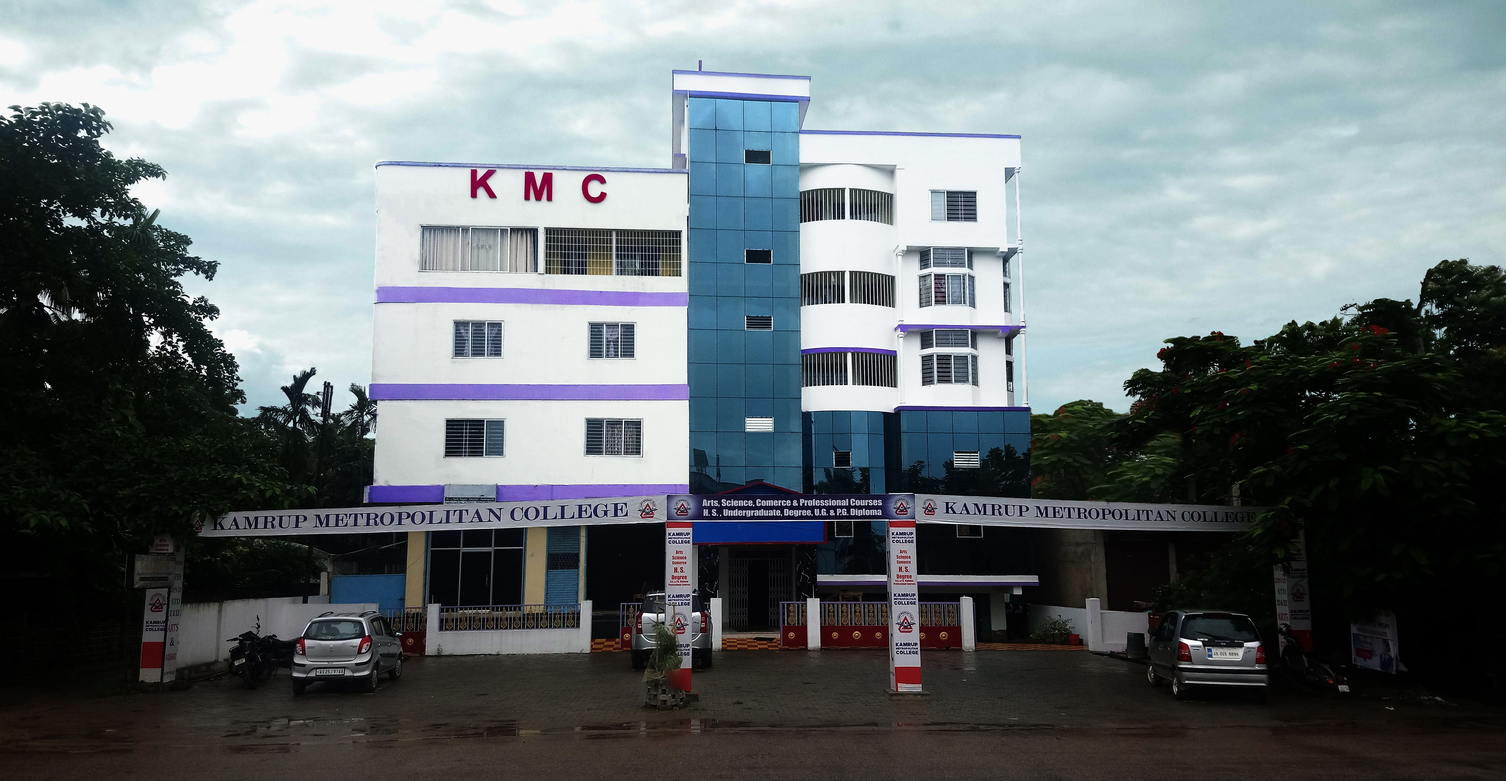
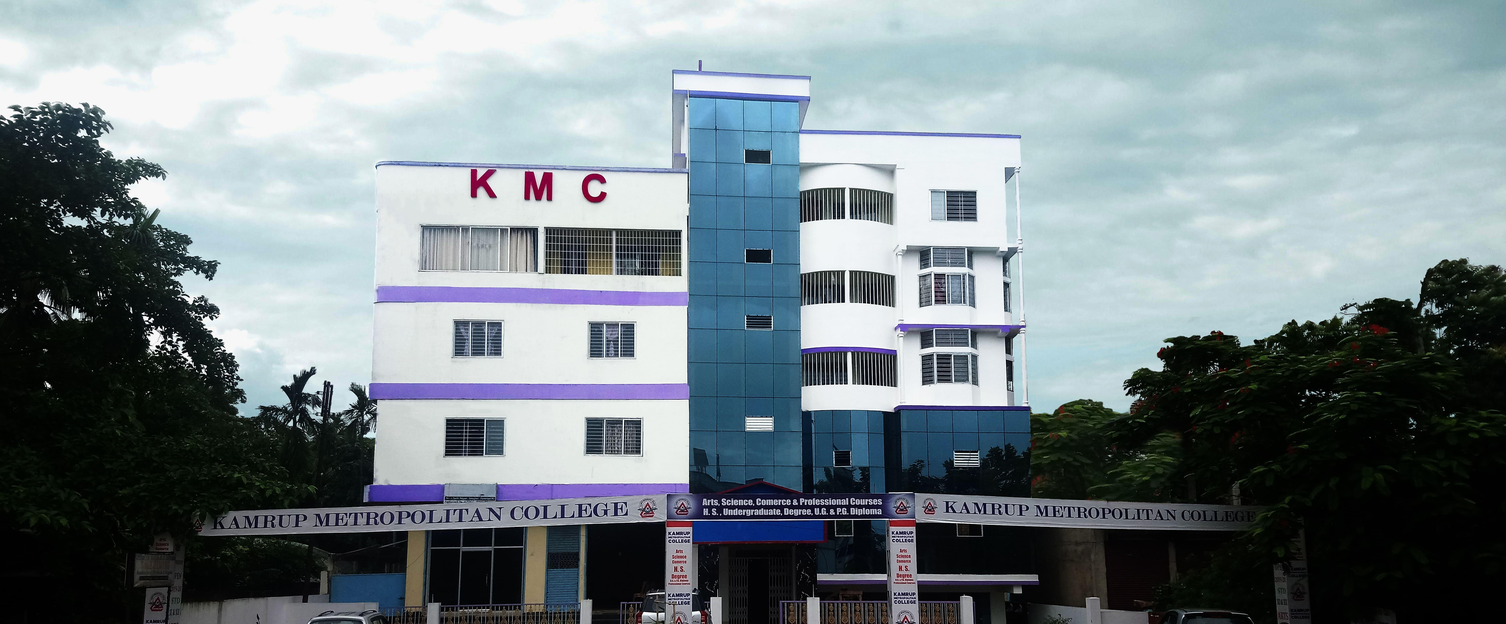
Added about section

diff --git a/resources/views/pages/home.blade.php b/resources/views/pages/home.blade.php
@@ -122,8 +122,12 @@
             </div>
         </div>
         <div style="margin: 0px 20px 0px 20px;">
-            <div class="card" style="height:56px; margin:0px !important;">
-
+            <div id="tab5" class="card waves-effect"
+                style="display:block; width:100%; height:56px; margin:0px !important; cursor:pointer;">
+                <span style="height:100%; padding-left:20px; line-height:56px; color:red; text-align:center;">Log out</span>
+                <div class="right" style="height:56px;">
+                    <i class="material-icons" style="line-height:56px; padding-right:16px;">exit_to_app</i>
+                </div>
             </div>
         </div>
     </div>
@@ -149,7 +153,7 @@
                     <form>
                         <input class="black-text" onblur="revertBg(this)" onclick="changeBg(this)"
                             onkeyup="showTable(this.value)" id="search" type="text" name="search"
-                            style="font-family:Arial, Helvetica, sans-serif; margin: 2px 10px 0px 0px; border-radius:20px; padding: 0px 20px; height:40px; width:300px; border:2px solid white;">
+                            style="font-family:Arial, Helvetica, sans-serif; margin: 2px 10px 0px 0px; border-radius:20px; padding: 0px 20px; height:40px; width:250px; border:2px solid white;">
                     </form>
                 </div>
             </div>
@@ -161,7 +165,7 @@
             </div>
         </div>
         <div id="non-searchable-requests" style="height:500px;">
-            <table>
+            <table class="responsive-table">
                 <tr>
                     <th>Name</th>
                     <th>Mark Sheet</th>
@@ -249,34 +253,34 @@
 
     $(document).ready(function() {
         $('input#input_text, textarea#textarea1').characterCounter();
-        $('#searchable-requests').css('display', 'none').animate();
-        $('#message-compose').css('display', 'none').animate();
-        $('#non-searchable-requests').css('display', 'none').animate();
+        $('#searchable-requests').css('display', 'none').animate(500);
+        $('#message-compose').css('display', 'none').animate(500);
+        $('#non-searchable-requests').css('display', 'none').animate(500);
     });
 
     
 
     $('#tab1').click(function(){
         // $('#s-div').addClass("blue").removeClass("purple");
-        $('#welcome-page').css('display', 'none').animate();
-        $('#searchable-requests').css('display', 'block').animate();
-        $('#message-compose').css('display', 'none').animate();
-        $('#non-searchable-requests').css('display', 'none').animate();
+        $('#welcome-page').css('display', 'none').animate(500);
+        $('#searchable-requests').css('display', 'block').animate(500);
+        $('#message-compose').css('display', 'none').animate(500);
+        $('#non-searchable-requests').css('display', 'none').animate(500);
     })
 
     $('#tab2').click(function(){
-        $('#welcome-page').css('display', 'none').animate();
-        $('#non-searchable-requests').css('display', 'block').animate();
-        $('#message-compose').css('display', 'none').animate();
-        $('#searchable-requests').css('display', 'none').animate();
+        $('#welcome-page').css('display', 'none').animate(500);
+        $('#non-searchable-requests').css('display', 'block').animate(500);
+        $('#message-compose').css('display', 'none').animate(500);
+        $('#searchable-requests').css('display', 'none').animate(500);
     })
 
     $('#tab3').click(function(){
         // $('#s-div').addClass("purple").removeClass("blue");
-        $('#welcome-page').css('display', 'none').animate();
-        $('#non-searchable-requests').css('display', 'none').animate();
-        $('#message-compose').css('display', 'block').animate();
-        $('#searchable-requests').css('display', 'none').animate();
+        $('#welcome-page').css('display', 'none').animate(500);
+        $('#non-searchable-requests').css('display', 'none').animate(500);
+        $('#message-compose').css('display', 'block').animate(500);
+        $('#searchable-requests').css('display', 'none').animate(500);
     })
 
 
@@ -312,10 +316,16 @@
     }
 
     function changeBg(el){
+        el.style.borderBottomLeftRadius = "0px";
+        el.style.borderBottomRightRadius = "0px";
+        el.style.borderBottom = "4px solid white";
         el.style.backgroundColor = "#FFFFFF";
     }
 
     function revertBg(el){
+        el.style.borderBottomLeftRadius = "20px";
+        el.style.borderBottomRightRadius = "20px";
+        el.style.borderBottom = "2px solid white";
         el.style.backgroundColor = "#2979ff";
     }
 

diff --git a/resources/views/pages/gallery.blade.php b/resources/views/pages/gallery.blade.php
@@ -19,34 +19,34 @@
         width: 100%;
     }
 </style>
-<div id="form-card-background"></div>
+{{-- <div id="form-card-background"></div> --}}
 <main>
    <div class="container row">
         <div class="col s6 l4 m4">
-            <img src="/images/blank.jpg" data-caption="Our freshers day at college." class="materialboxed" style="width:100%">
-            <img src="/images/books.jpg" class="materialboxed" style="width:100%">
-            <img src="/images/bio.jpg" class="materialboxed" style="width:100%">
-            <img src="/images/dating.jpg" class="materialboxed" style="width:100%">
-            <img src="/images/cc.jpg" class="materialboxed" style="width:100%">
-            <img src="/images/a.jpg" class="materialboxed" style="width:100%">
-            <img src="/images/b.jpg" class="materialboxed" style="width:100%">
-            <img src="/images/principal.jpg" class="materialboxed" style="width:100%">
+            <img src="/images/blank.jpg" data-caption="Our freshers day at college." class="materialboxed z-depth-3 hoverable" style="width:100%">
+            <img src="/images/books.jpg" class="materialboxed z-depth-3 hoverable" style="width:100%">
+            <img src="/images/bio.jpg" class="materialboxed z-depth-3 hoverable" style="width:100%">
+            <img src="/images/dating.jpg" class="materialboxed z-depth-3 hoverable" style="width:100%">
+            <img src="/images/cc.jpg" class="materialboxed z-depth-3 hoverable" style="width:100%">
+            <img src="/images/a.jpg" class="materialboxed z-depth-3 hoverable" style="width:100%">
+            <img src="/images/b.jpg" class="materialboxed z-depth-3 hoverable" style="width:100%">
+            <img src="/images/principal.jpg" class="materialboxed z-depth-3 hoverable" style="width:100%">
           </div>
           <div class="col s6 l4 m4">
-            <img src="/images/front.jpg" class="materialboxed" style="width:100%">
-            <img src="/images/z.jpg" class="materialboxed" style="width:100%">
-            <img src="/images/physics.jpg" class="materialboxed" style="width:100%">
-            <img src="/images/college.jpg" class="materialboxed" style="width:100%">
-            <img src="/images/christmas.jpg" class="materialboxed" style="width:100%">
-            <img src="/images/c.jpg" class="materialboxed" style="width:100%">
-            <img src="/images/chem.jpg" class="materialboxed" style="width:100%">
+            <img src="/images/front.jpg" class="materialboxed z-depth-3 hoverable" style="width:100%">
+            <img src="/images/z.jpg" class="materialboxed z-depth-3 hoverable" style="width:100%">
+            <img src="/images/physics.jpg" class="materialboxed z-depth-3 hoverable" style="width:100%">
+            <img src="/images/college.jpg" class="materialboxed z-depth-3 hoverable" style="width:100%">
+            <img src="/images/c.jpg" class="materialboxed z-depth-3 hoverable" style="width:100%">
+            <img src="/images/christmas.jpg" class="materialboxed z-depth-3 hoverable" style="width:100%">
+            <img src="/images/chem.jpg" class="materialboxed z-depth-3 hoverable" style="width:100%">
           </div>  
           <div class="col s6 l4 m4">
-            <img src="/images/books.jpg" class="materialboxed" style="width:100%">
-            <img src="/images/boys-talking.jpg" class="materialboxed" style="width:100%">
-            <img src="/images/vision.jpg" class="materialboxed" style="width:100%">
-            <img src="/images/d.jpg" class="materialboxed" style="width:100%">
-            <img src="/images/friends.jpg" class="materialboxed" style="width:100%">
+            <img src="/images/books.jpg" class="materialboxed z-depth-3 hoverable" style="width:100%">
+            <img src="/images/boys-talking.jpg" class="materialboxed z-depth-3 hoverable" style="width:100%">
+            <img src="/images/vision.jpg" class="materialboxed z-depth-3 hoverable" style="width:100%">
+            <img src="/images/d.jpg" class="materialboxed z-depth-3 hoverable" style="width:100%">
+            <img src="/images/friends.jpg" class="materialboxed z-depth-3 hoverable" style="width:100%">
           </div>
    </div>
 </main>

diff --git a/resources/views/layouts/footer.blade.php b/resources/views/layouts/footer.blade.php
@@ -6,25 +6,25 @@
                 <p class="grey-text text-lighten-4">You can contact us in the following ways <i class="material-icons tiny">arrow_downward</i>
                 </p>
                 <ul>
-                    <li><span style="font-weight: bold;">Email: kmc@gmail.com</span></li>
-                    <li><span style="font-weight: bold;">Phone: 7637989889, 7637989889, 7637989889</li>
+                    <li><span style="font-weight: bold;">Email: kamrupmetropolitancollege19@gmail.com</span></li>
+                    <li><span style="font-weight: bold;">Phone: 7577902620, 7637989889, 8638263960, 6901893368</li>
                 </ul>
             </div>
             <div class="col l4 offset-l2 s12">
                 <h4 class="white-text social-header">Let's get social</h4>
                 <ul>
-                    <li><a class="grey-text text-lighten-3" href="#!">instagram.com/kmcolleges</a></li>
-                    <li><a class="grey-text text-lighten-3" href="#!">twitter.com/kmcolleges</a></li>
-                    <li><a class="grey-text text-lighten-3" href="#!">facebook.com/kmcolleges</a></li>
-                    <li><a class="grey-text text-lighten-3" href="#!">pinterest.com/kmcolleges</a></li>
+                    <li><img src="/images/instagram.svg" height="16px" width="16px" alt=""><a class="grey-text text-lighten-3" style="font-size:1.1rem;" href="https://www.instagram.com/kmcolleges">&nbsp;/kmcolleges</a></li>
+                    <li><img src="/images/twitter.svg" height="16px" width="16px" alt=""><a class="grey-text text-lighten-3" style="font-size:1.1rem;" href="https://www.twitter.com/kmcolleges">&nbsp;/kmcolleges</a></li>
+                    <li><img src="/images/facebook.svg" height="16px" width="16px" alt=""><a class="grey-text text-lighten-3" style="font-size:1.1rem;" href="https://www.facebook.com/kmcolleges">&nbsp;/kmcolleges</a></li>
+                    <li><img src="/images/whatsapp.svg" height="16px" width="16px" alt=""><a class="grey-text text-lighten-3" style="font-size:1.1rem;" href="#!">- 6003499695</a></li>
                 </ul>
             </div>
         </div>
     </div>
     <div class="footer-copyright">
         <div class="container">
-            © 2014 Copyright Text
-            <a class="grey-text text-lighten-4 right" href="#!">Useful Links</a>
+            © 2018 Copyright Kamrup Metropolitan College
+            {{-- <a class="grey-text text-lighten-4 right" href="#!">Useful Links</a> --}}
         </div>
     </div>
 </footer>

diff --git a/resources/views/pages/about.blade.php b/resources/views/pages/about.blade.php
@@ -4,7 +4,7 @@
 <main>
     <div class="about-header row">
         <div class="header-img-container col s12 m12 l12"> 
-            <img class="header-img" src="images/IMG_5007.jpg">    
+            <img class="header-img" src="images/IMG_5012.JPG">    
         </div>
         <div class="header-container col s12 m10 offset-m1 l10 offset-l1">
             <h1 class="heading-about white-text">About Us</h1>
@@ -33,6 +33,19 @@
                 NEET, Civil Service Examination and so on. We are providing appropriate personal attention to all our
                 students. We are providing them a homely atmosphere outside their homes. We are providing hundred
                 percent student freindly education and personality development counseling.</p>
+            </div>
+            
+            <div class="about-the-princi purple lighten-5 row">
+                <div class="sponsor-text-container col s12 m8 l8">
+    				<h3 class="sponsor-name color-x-text text-dark">Bhupen Hazarika</h3>
+    				<h5 class="color-x-text text-dark">(The Principal)</h5>
+    				<p class="sponsor-about color-x-text text-dark">
+    					"I believe that everyone deserves education in some way or the other. It's a matter of interest, that decides how far can you go with that energy. God provided us with a brain capable of doing miraculous things. If only we could tap into the true power of our brain, we will discover what is called Nirvana."
+    				</p>
+    			</div>
+                <div class="sponsor-img-container col s12 m4 l4">
+    				<img class="sponsor-img" src="images/princi.jpg">
+    			</div>
     		</div>
 
     		<div class="about-the-sponsor row pink lighten-5">
@@ -70,7 +83,15 @@
                     confidence and to realize their valued dreams transgressing the barriers in their path.
     				</p>
     			</div>
-    		</div>
+            </div>
+            
+            <div class="faculty row" style="height:700px;">
+                <img src="/images/faculty.jpg" style="object-fit:cover; height:500px; width:100%;" alt="">
+                <div>
+                    <h5 style="font-family: 'Bebas Neue', cursive;">The Faculty</h5>
+                    <p>Hi, Students! We cannot wait for you to enjoy the best learning adventures that we have set up for you, here at KMC. We do hope that, you chose to follow your dreams along with us. Together, we can endavour through the journey of life. </p>
+                </div>
+            </div>
     	</div>
     </div>
 </main>

diff --git a/app/Http/Controllers/HomeController.php b/app/Http/Controllers/HomeController.php
@@ -30,7 +30,7 @@ class HomeController extends Controller
 
     public function mew($q){
         $x = str_split(strtolower($q));
-        $whole = "<table><tr><th>Name</th><th>Mark Sheet</th><th>Admit Card</th><th>Stream</th><th>Phone No.</th><th>Email</th><th>Gender</th><th>DOB</th><th>Father's Name</th><th>Mother's Name</th><th>Last School</th></tr>";
+        $whole = "<table class=\"responsive-table\"><tr><th>Name</th><th>Mark Sheet</th><th>Admit Card</th><th>Stream</th><th>Phone No.</th><th>Email</th><th>Gender</th><th>DOB</th><th>Father's Name</th><th>Mother's Name</th><th>Last School</th></tr>";
         // $letter = Input::get('q');
         $app_reqs = ApplicationRequest::orderBy('created_at', 'asc')->paginate(10);
 

diff --git a/resources/views/pages/index.blade.php b/resources/views/pages/index.blade.php
@@ -3,7 +3,7 @@
 @section('content')
 <main>
     <div class="cover-img-container row" id="coverImg">
-        <img class="cover-img" src="images/cover.jpg">
+        <img class="cover-img" src="images/college.jpg">
 
         <div class="cover-header col s10 offset-s1 m10 offset-m1 l8 offset-l2">
             <div class="hide-on-med-and-up header-text-container">
